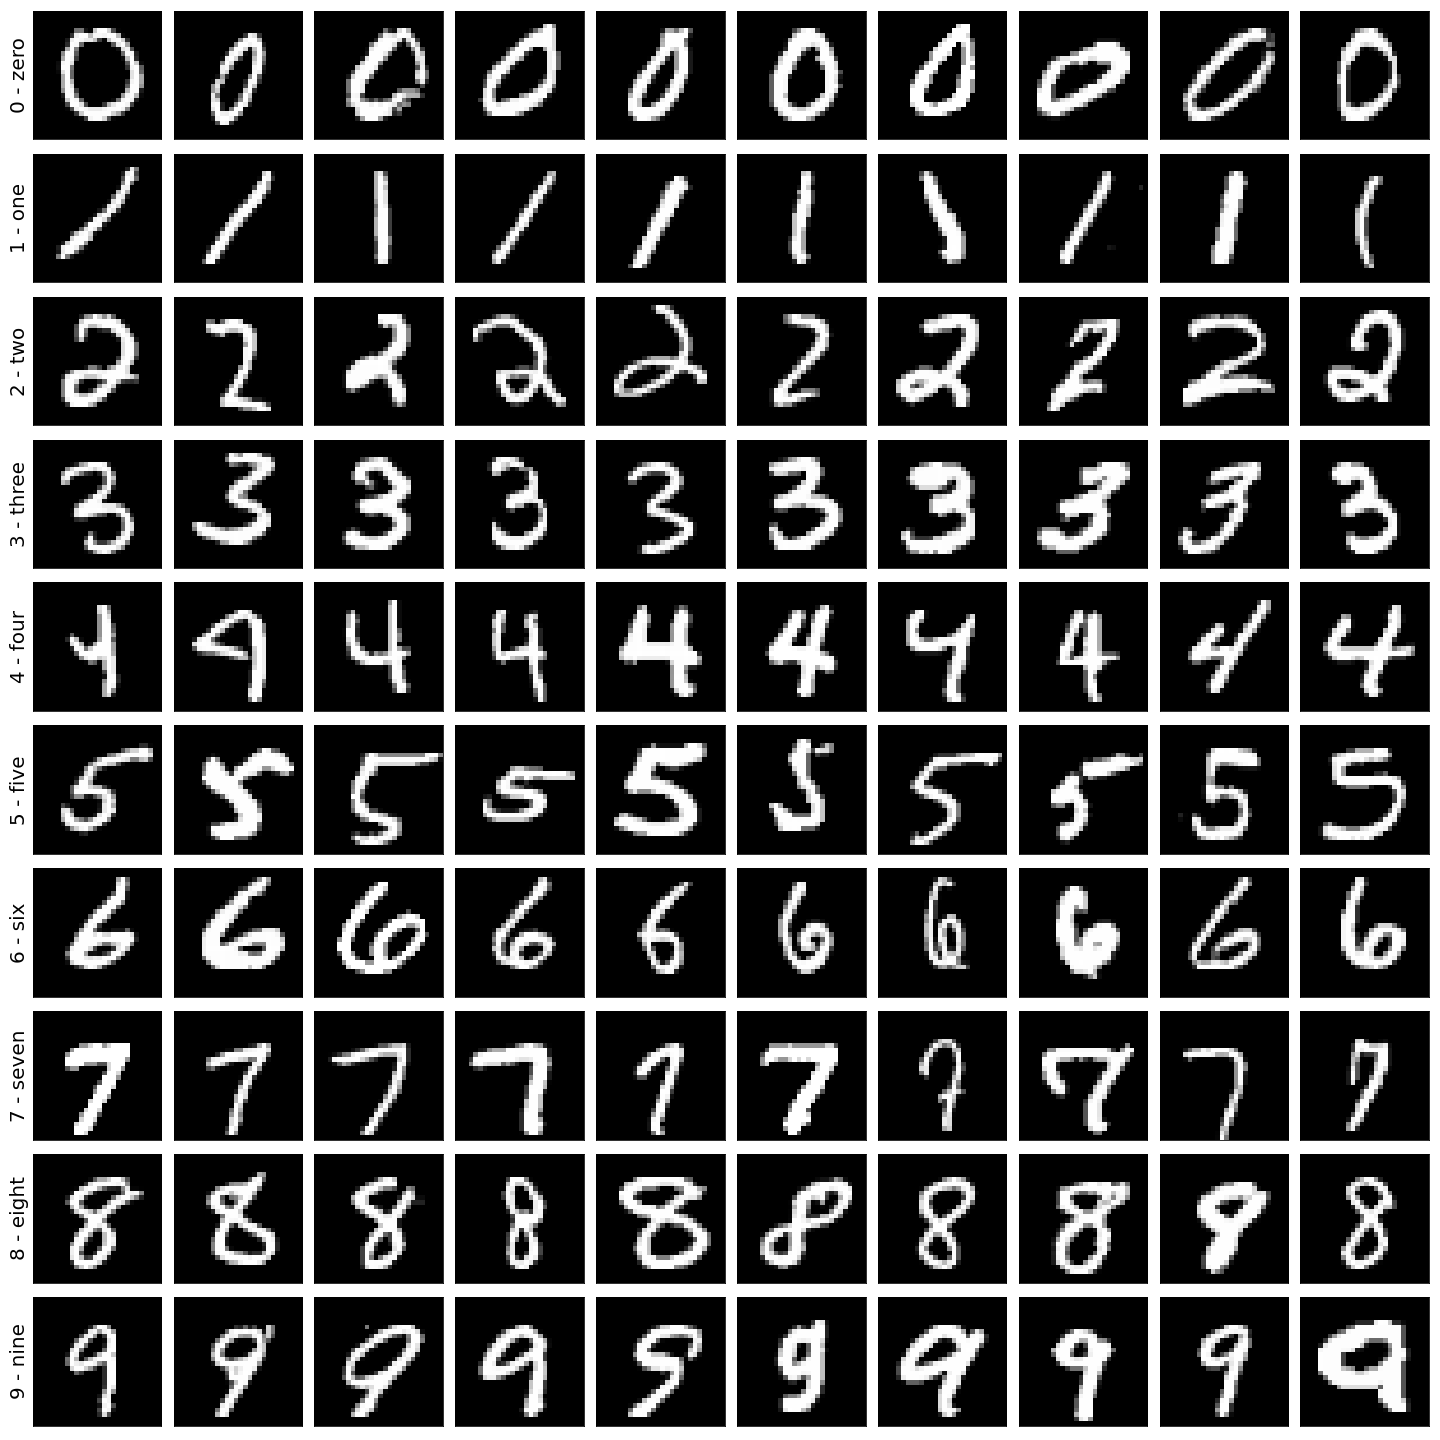
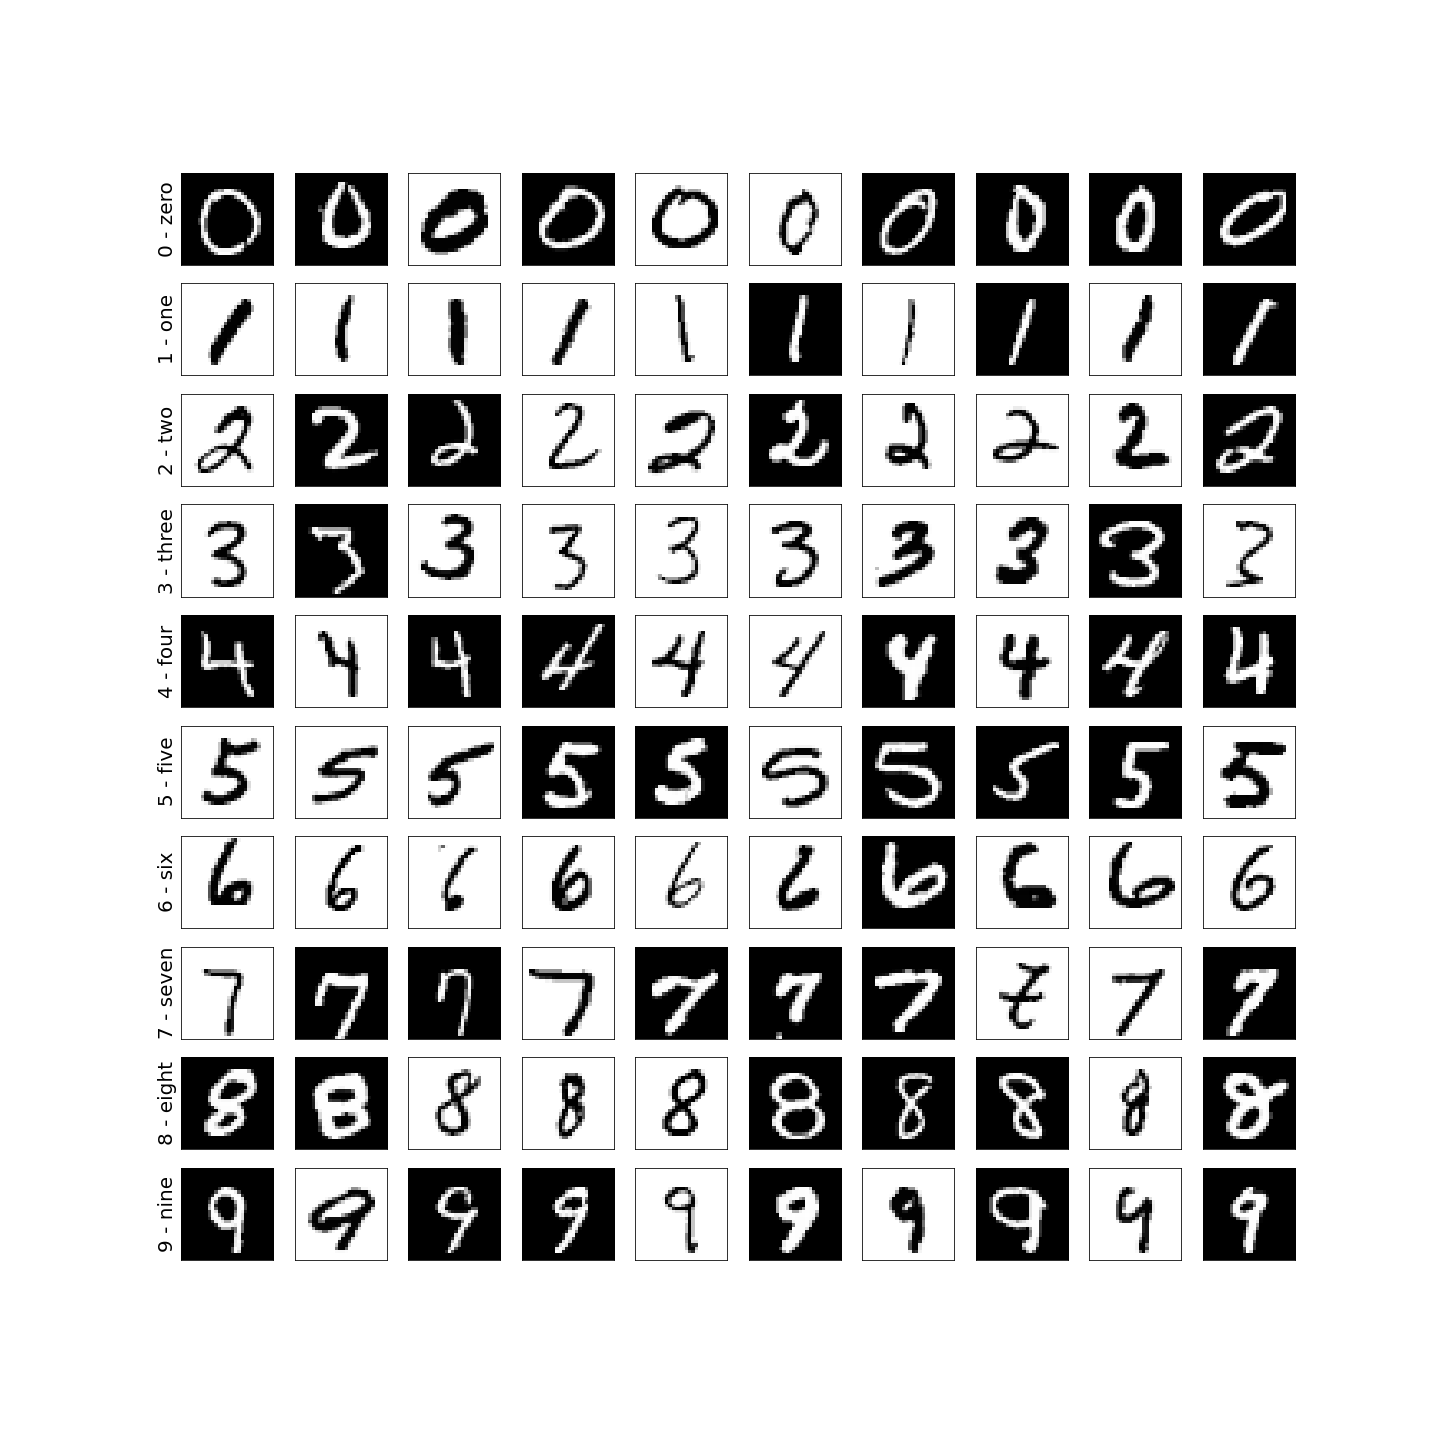
Update documentation images

diff --git a/documentation/source/index.rst b/documentation/source/index.rst
@@ -91,53 +91,39 @@ Quickstart
 Loading the Data
 ----------------
 
-First, we need to import ``torchvision`` libraries to load the dataset
-
 .. code-block:: python
 
-    from torchvision.datasets import MNIST # The MNIST dataset
-    from torchvision import transforms # To convert to Images to Tensors
+    import torch
+    from torch import nn
 
-
-Now we can import the train and the test datasets.
-
-.. code-block:: python
-
-    train_ds = MNIST(root='/tmp/data/mnist', download=True, train=True, transform=transforms.ToTensor())
-    test_ds = MNIST(root='/tmp/data/mnist', download=False, train=False, transform=transforms.ToTensor())
-
-.. image:: /img/quickstart/install_mnist.png
-
-| To visualize the training dataset we can use show_imagegrid_dataset from utils
-| subpackage. We can do the same for the testing set. This could be helpful to compare in no time
-| the training dataset with the testing one.
-
-.. code-block:: python
+    import torchero
+    from torchero.models.vision import ImageClassificationModel
+    from torchero.callbacks import ProgbarLogger, ModelCheckpoint, CSVLogger
+    from torchero.utils.data import train_test_split
+    from torchero.utils.vision import show_imagegrid_dataset, transforms, datasets, download_image
+    from torchero.meters import ConfusionMatrix
 
     from matplotlib import pyplot as plt
-    from torchero.utils import show_imagegrid_dataset
 
+
+|   First we load the MNIST train and test datasets and visualize it using ``show_imagegrid_dataset``.
+|   The Data Augmentation for this case will be a RandomInvert to flip the grayscale levels.
+
+.. code-block:: python
+
+    train_ds = datasets.MNIST(root='/tmp/data/mnist', download=True, train=True, transform=transforms.Compose([transforms.RandomInvert(),
+    test_ds = datasets.MNIST(root='/tmp/data/mnist', download=False, train=False, transform=transforms.ToTensor())
     show_imagegrid_dataset(train_ds)
     plt.show()
 
+.. image:: /img/quickstart/install_mnist.png
 .. image:: /img/quickstart/mnist_train_data.png
 
-| Then we need to set up one DataLoader for the training dataset and another one for
-| the testing one. This component is responsible for fetching the training and testing
-| data in the form of batches. For the batch size parameter we can use 32.
+Defining the Network
+--------------------
 
-.. code-block:: python
-
-    train_dl = DataLoader(train_ds, batch_size=32)
-    test_dl = DataLoader(test_ds, batch_size=32)
-
-
-Model definition
-----------------
-
-| Then we need to define the architecture of the model. For this case we can
-| define a simple Sequential network with 2 Convolutional Layers and 2 dense ones
-| as follows:
+| Let's define a Convolutional network of two layers followed by a Linear Module
+| as the classification layer.
 
 .. code-block:: python
 
@@ -152,52 +138,41 @@ Model definition
                           nn.ReLU(inplace=True),
                           nn.Linear(500, 10))
 
-Training
---------
+Training the Model
+------------------
 
-The SupervisedTrainer is responsible for the training of our network. We need to construct it with at least 3 things
-
-- The Model instance (we have already done that)
-- The Optimizer. Here we can choose ``'adam'`` (there are other multiple choices like ``'sdg'``, ``'asgd'``, ``'adagrad'``, ``'adamax'``, ``'lbfgfs'``, etc.)
-- The Criterion (or loss). Given the fact that this is a classification problem we can use ``'cross_entropy'``
-
-Some additional things that can be pass to the trainer
-are:
-
-- A list or dictionary of metrics. For this example we are going to choose ``'categorical_accuracy_percentage'``
-- A list of callbacks. For this list, we will choose
-
-  - ``ProgbarLogger``: To report a Progress Bar to see the status while Training. Here, it's important to notice that if you are running the code over a Jupyter notebook you may want to set the `notebook` parameter to `true` in order to display the progress bar in HTML format.
-  - ``ModelCheckpoint``: To save our model if this one improves in `categorical_accuracy_percentage`
-  - ``CSVLogger``: To save the table of metrics for it to be later shared or load it from another program if we want.
+|  The ImageClassificationModel is the module responsible to train the model,
+|  evaluate a metric against a dataset, and predict from and input for multi-class classification tasks.
+|
+|  To train the model we need to compile it first with a:
+|
+|  - an optimizer: 'adam'
+|  - a loss which will be defaulted to ``cross_entropy``
+|  - a list of metrics which will be defaulted to ``categorical_accuracy``, ``balanced_accuracy``)
+|  - a list of callbacks:
+|      - ProgbarLogger to show training progress bar
+|      - ModelCheckpoint to make checkpoints if the model improves
+|      - CSVLogger to dump the metrics to a csv file after each epoch
 
 .. code-block:: python
 
-  from torchero import SupervisedTrainer
-  from torchero.callbacks import ProgbarLogger, ModelCheckpoint, CSVLogger
+    model = ImageClassificationModel(model=network, 
+                                     transform=transforms.Compose([transforms.Grayscale(),
+                                                                   transforms.Resize((28,28)),
+                                                                   transforms.ToTensor()]),
+                                     classes=[str(i) for i in range(10)])
+    model.compile(optimizer='adam',
+                  callbacks=[ProgbarLogger(notebook=True),
+                             ModelCheckpoint('saved_model', mode='max', monitor='val_acc'),
+                             CSVLogger('training_results.xml')])
 
-  trainer = SupervisedTrainer(model=model,
-                              optimizer='sgd',
-                              criterion='cross_entropy',
-                              acc_meters=['categorical_accuracy_percentage'],
-                              callbacks=[ProgbarLogger(notebook=True),
-                                         ModelCheckpoint('saved_model', mode='max', monitor='val_acc'),
-                                         CSVLogger('training_results.xml')])
+    if torch.cuda.is_available():
+        model.cuda()
 
-If we want to train using GPU. We can just execute
-
-.. code-block:: python
-
-  trainer.cuda()
-
-This will automatically convert the model and the data from which the model will feed to cuda as well.
-
-Finally we need to train our network. We can
-do it we this simple line.
-
-.. code-block:: python
-
-  trainer.train(dataloader=train_dl, valid_dataloader=test_dl, epochs=5)
+    history = model.fit(train_ds,
+                        test_ds,
+                        batch_size=1024,
+                        epochs=5)
 
 .. image:: /img/quickstart/training_status.gif
 
@@ -209,15 +184,12 @@ can execute:
 
 .. code-block:: python
 
-  fig, axs = plt.subplots(figsize=(14,3), ncols=2, nrows=1)
-  trainer.history.epoch_plot(['train_acc', 'val_acc'], ax=axs[0], title="Accuracy")
-  trainer.history.epoch_plot(['train_loss', 'val_loss'], ax=axs[1], title="Loss")
-  plt.show()
+    history.plot(figsize=(20, 20), smooth=0.2)
+    plt.show()
 
 .. image:: /img/quickstart/metrics.png
 
-Also, if we want to see how well the model
-performed on each label we can show a confusion matrix as following.
+The ``.evaluate`` returns the metrics for a new dataset.
 
 .. code-block:: python
 

diff --git a/README.md b/README.md
@@ -87,10 +87,10 @@ network = nn.Sequential(nn.Conv2d(in_channels=1, out_channels=32, kernel_size=5)
 					  nn.Linear(500, 10))
 ```
 
+### Training the Model
+
 The ImageClassificationModel is the module responsible to train the model,
 evaluate a metric against a dataset, and predict from and input for multi-class classification tasks.
-
-### Training the Model
 
 To train the model we need to compile it first with a:
 
@@ -126,7 +126,8 @@ history = model.fit(train_ds,
 
 ### Displaying the training results
 
-To see the training metrics
+To visualize our loss and accuracy in each epoch we
+can execute:
 
 ```python
 history.plot(figsize=(20, 20), smooth=0.2)
